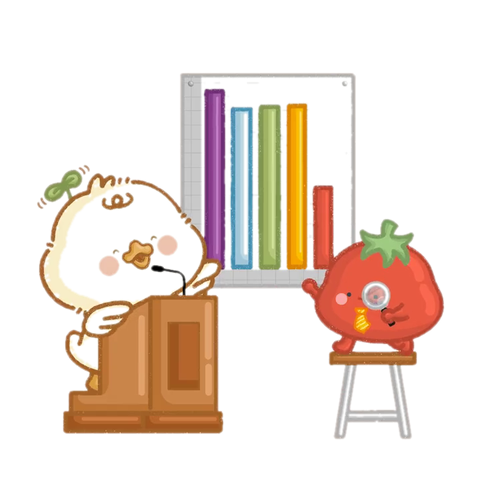
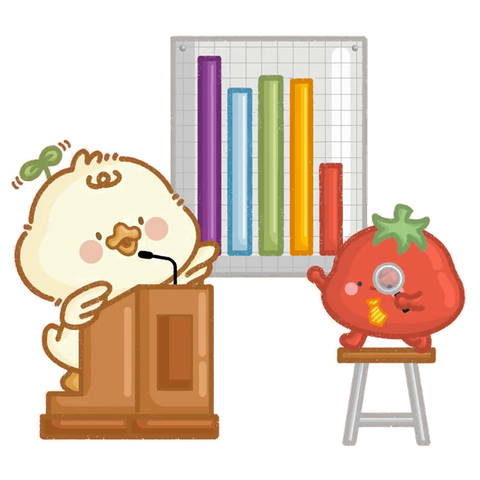
a
a

diff --git a/AGENTS.md b/AGENTS.md
@@ -217,6 +217,23 @@ The running record of progress — this is how a fresh session on ANY machine
 knows what happened without asking the human. Entries must be short: date,
 what changed (file names), what's next.
 
+- **2026-11-23 (Kimi Work, pt 6 — light, ON MASTER):** STATS-CARD ART
+  REBUILT (Andy's dark-mode report: cream halo box around the mascot on the
+  Focus Stats card). Root cause: 2026-11-13's ffmpeg colorkey left a
+  semi-transparent fringe, and the duck's cream body (≈#fff8e6, distance
+  ~10-13 from the #faefe8 bg) sat INSIDE the key range, so on dark cards the
+  duck went dark and the fringe glowed. Rebuilt from
+  `assets/gifs/stats-mascot-light.mp4` with a distance-based alpha +
+  color decontamination (`_work/rekey_stats_card.py`): the bg is dead flat
+  (p60 distance 3.3) so a tight 4→12 ramp keys bg fully while the lightest
+  content (duck ~10.5) stays opaque; pure-white objects (chart whiteboard)
+  are protected by a closer-to-white-than-cream rule. Same filename
+  `assets/images/stats-card.png` (480² RGBA, 142 KB) — all 35 card rows
+  pick it up automatically, no markup touched. Frame-verified composited on
+  dark (#1a140f) and cream (#FBF3E4): no halo, duck + whiteboard + tomato
+  correct on both. PORT NEEDED: development still has the old PNG — copy
+  over on the next development session.
+
 - **2026-11-23 (Kimi Work, pt 5 — medium, ON MASTER):** LIVE STATS hotfix
   for the live site. The pin chip and the stats page now count a RUNNING
   timer in real time instead of only at pause (Andy: "stats feels janky, ran
